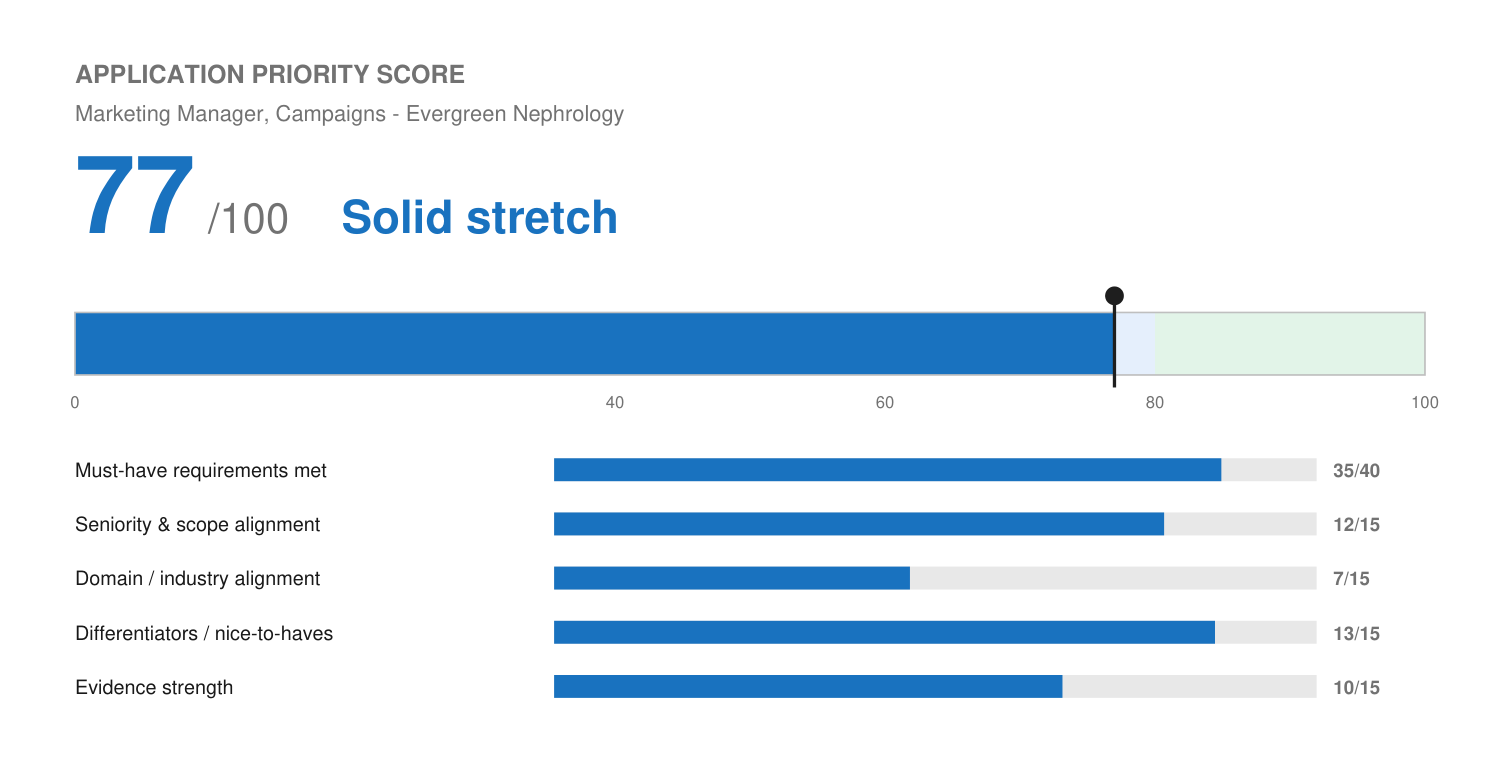
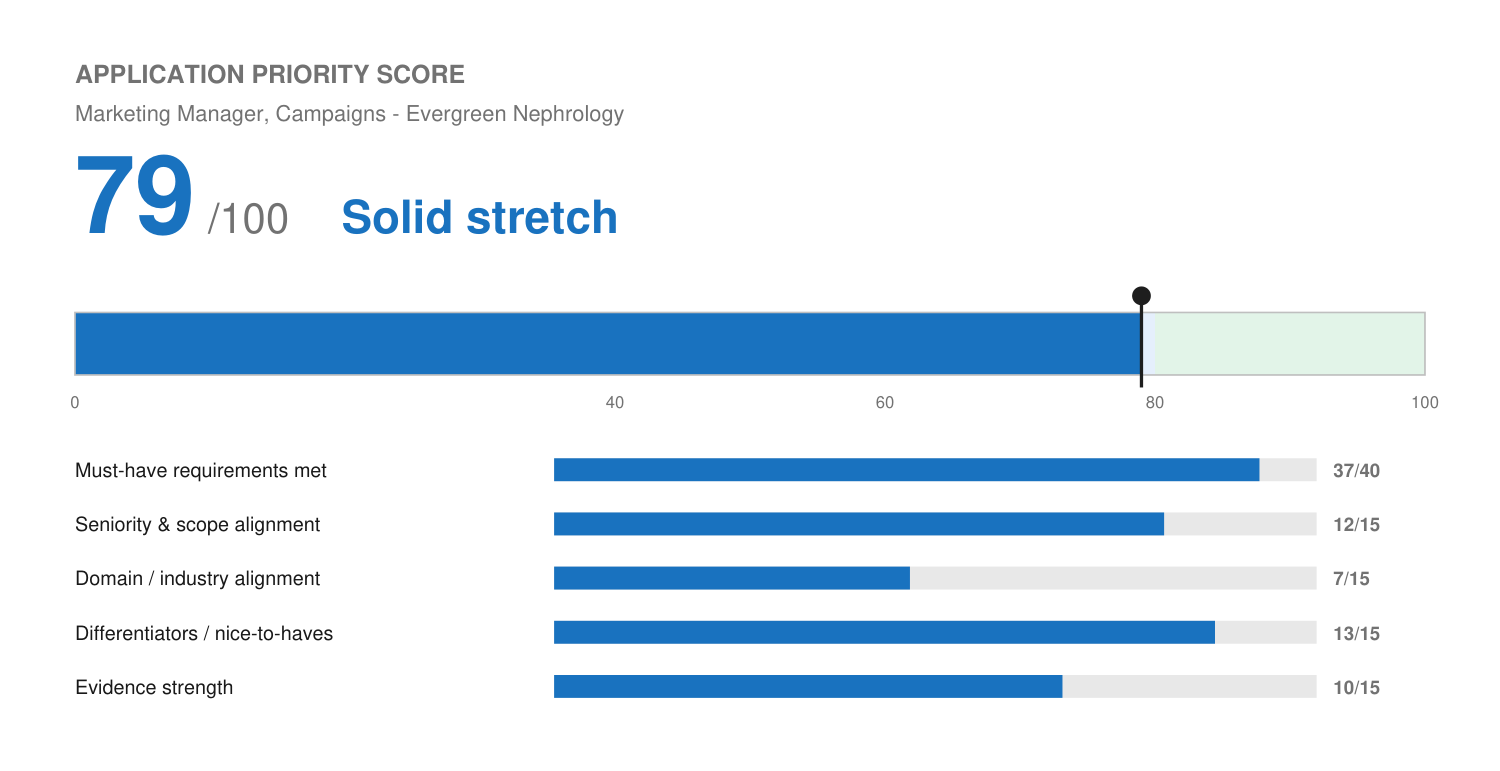
Profile: record SMS in GHL workflows (do not re-ask). Evergreen resume + cover letter updated, score 79
Claude-Session: https://claude.ai/code/session_01Quz1wQsVbycgj85WWSYfNT

Changed region(s): [[0.092, 0.1868, 0.1533, 0.3113], [0.736, 0.3735, 0.7667, 0.4981], [0.7973, 0.5914, 0.8587, 0.6226]]

diff --git a/profile/master-profile.md b/profile/master-profile.md
@@ -340,6 +340,10 @@ operator talking, not like a candidate performing.
 - Document every client interaction, timeline, and deliverable in GoHighLevel, HubSpot, and Notion, keeping project records auditable across concurrent engagements.
 
 **Marketing & Growth Systems**
+> **SMS is a core channel in every GHL workflow (confirmed by Josh repeatedly, recorded
+> Oct 2026, DO NOT RE-ASK):** the booking confirmations, reminders, no-show recovery,
+> nurture, and reactivation workflows send SMS as well as email. Claim SMS campaign
+> build/deployment directly for any posting that names SMS or text messaging.
 > **Automation platform breadth beyond GoHighLevel (confirmed by Josh, Sep 2026):** Josh
 > builds automations in Zapier, Make, and n8n at Solenzo, in addition to native
 > GoHighLevel workflows, not siloed to one platform. He has built Zapier automations
@@ -383,7 +387,7 @@ operator talking, not like a candidate performing.
 - Break down manual marketing workflows into agent architectures with custom logic that scores a business's digital footprint and generates hyper-personalized outreach.
 - Translate non-technical stakeholders' generalized ideas and feedback into precise, structured AI prompts and agent instructions — acting as the bridge between business intent and reliable LLM output.
 - Design and deploy automated lifecycle sequences, onboarding workflows, and CRM architectures that activate, nurture, and retain high-value users at scale.
-- Architected and deployed a **complete GoHighLevel marketing-automation system — 20+ workflows** spanning lead capture/tagging/routing, lead qualification, appointment booking with confirmation and reminders, no-show recovery, post-sale onboarding nurture, long-term nurture/reactivation, and automated review-generation sequences.
+- Architected and deployed a **complete GoHighLevel marketing-automation system — 20+ SMS and email workflows** spanning lead capture/tagging/routing, lead qualification, appointment booking with confirmation and reminders, no-show recovery, post-sale onboarding nurture, long-term nurture/reactivation, and automated review-generation sequences.
 - Built segmented cold-email outreach engines in GHL (website-visibility, missed-calls, and low-reviews campaigns) plus an automated **prospect "audit" workflow that enrolled 180+ contacts**, scoring a business's digital footprint to trigger personalized outreach.
 - Conduct technical SEO audits, keyword gap analyses, and competitor research using Screaming Frog for site-wide SEO data pulls, implementing fixes directly inside client CMS platforms.
 - Identify and implement schema/structured data as part of technical SEO audits, pulling full on-page schema implementation. *(Confirmed by Josh, Aug 2026.)*

diff --git a/applications/evergreen-nephrology-marketing-manager-campaigns/match-report.md b/applications/evergreen-nephrology-marketing-manager-campaigns/match-report.md
@@ -24,14 +24,14 @@ No knockouts.
 ## Application Priority Score
 
 ```
-🟡 Application Priority Score: 77 / 100 — Solid stretch
-[███████████████░░░░░]  77%
+🟡 Application Priority Score: 79 / 100 — Solid stretch
+[████████████████░░░░]  79%
 ```
 *Internal decision aid, not a prediction of any employer's score or decision.* See `fit.png`.
 
 | Dimension | Score | Max | Why |
 | :--- | ---: | ---: | :--- |
-| Must-have requirements met | 35 | 40 | 4+ yrs marketing/campaign ops, multi-campaign launches, PM and writing, email and multi-channel materials, remote, MS Office. SMS and patient/provider materials not documented. |
+| Must-have requirements met | 37 | 40 | 4+ yrs marketing/campaign ops, multi-campaign launches, PM and writing, email and SMS, remote, MS Office. Patient/provider materials not documented. |
 | Seniority & scope alignment | 12 | 15 | Mid-level campaign manager is a natural fit. |
 | Domain / industry alignment | 7 | 15 | Healthcare-adjacent only: Birdeye channel sales to healthcare-focused agencies. No patient marketing, compliance/regulated-content review, or value-based care. |
 | Differentiators / nice-to-haves | 13 | 15 | CRM, marketing automation, email platforms, PM tools, analytics, templates/playbooks: nearly the full preferred list. |
@@ -47,7 +47,7 @@ No knockouts.
 | 4+ yrs marketing / campaign / ops / partner marketing | Strong | Solenzo, Level, Fetch & Funnel, Birdeye |
 | Multiple campaigns, planning through post-launch | Strong | Level integrated campaigns, Solenzo lifecycle builds |
 | PM, stakeholders, writing, editing, detail | Strong | Notion/HubSpot documentation, published content |
-| Patient/provider/partner/email/SMS materials | Adjacent | Email, landing pages, partner training sequences. SMS and patient-facing materials unconfirmed. |
+| Patient/provider/partner/email/SMS materials | Strong | SMS and email lifecycle workflows, landing pages, partner training sequences. Patient-facing materials not documented. |
 | Remote, evolving infrastructure | Strong | Remote since 2020; founder |
 | Healthcare / regulated content (pref) | Adjacent | Healthcare agency channel at Birdeye |
 | Platforms, automation, PM tools (pref) | Strong | HubSpot, GHL, Marketo, Mailchimp, Asana, Monday.com |
@@ -57,7 +57,7 @@ No knockouts.
 - Patient-facing healthcare marketing and compliance/regulatory review workflows.
 
 ## Candidate confirmation needed
-1. **SMS campaigns:** do your GHL booking/reminder/no-show workflows send SMS? Likely yes; SMS is named twice in this posting.
+1. ~~SMS~~ **Resolved** (yes; now in profile as do-not-re-ask).
 2. **Contract term:** OK with a 6-month contract?
 
 ## Output files
